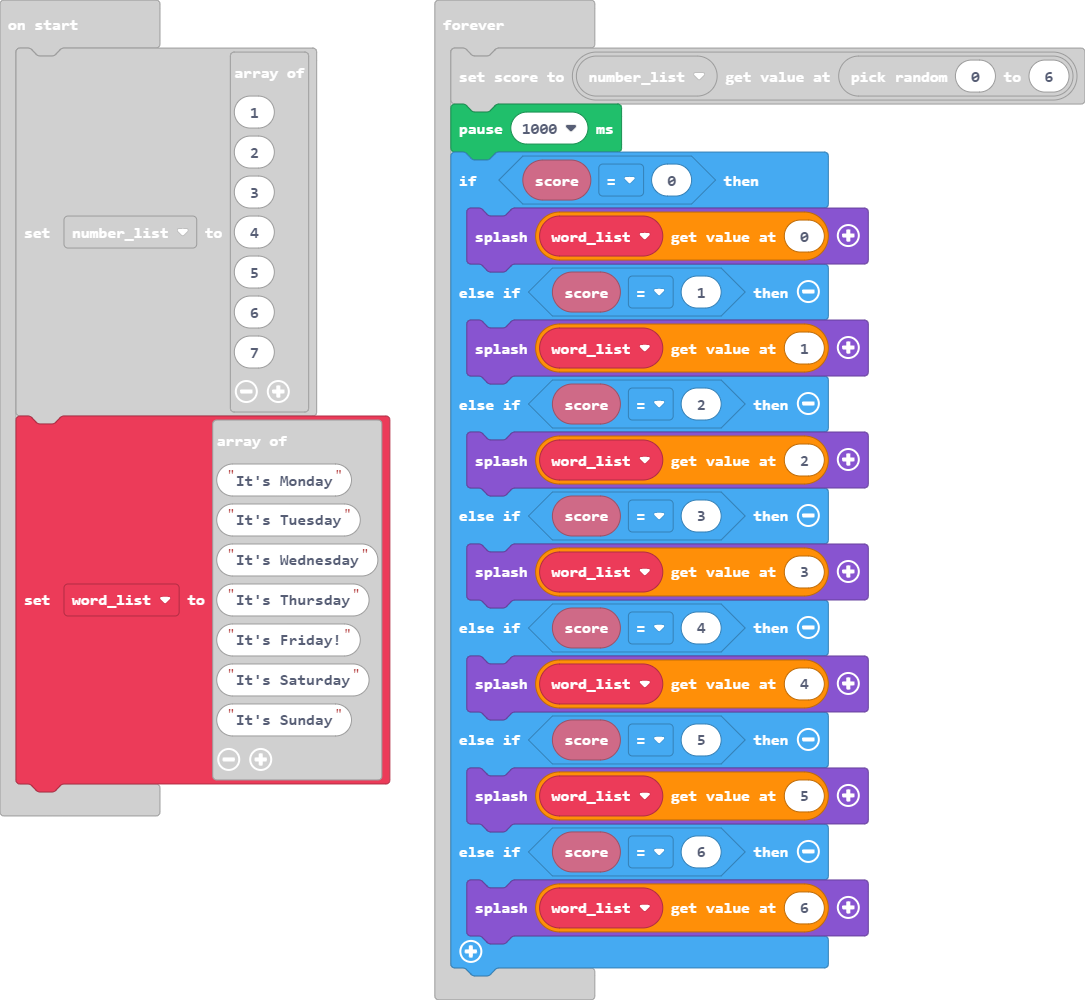
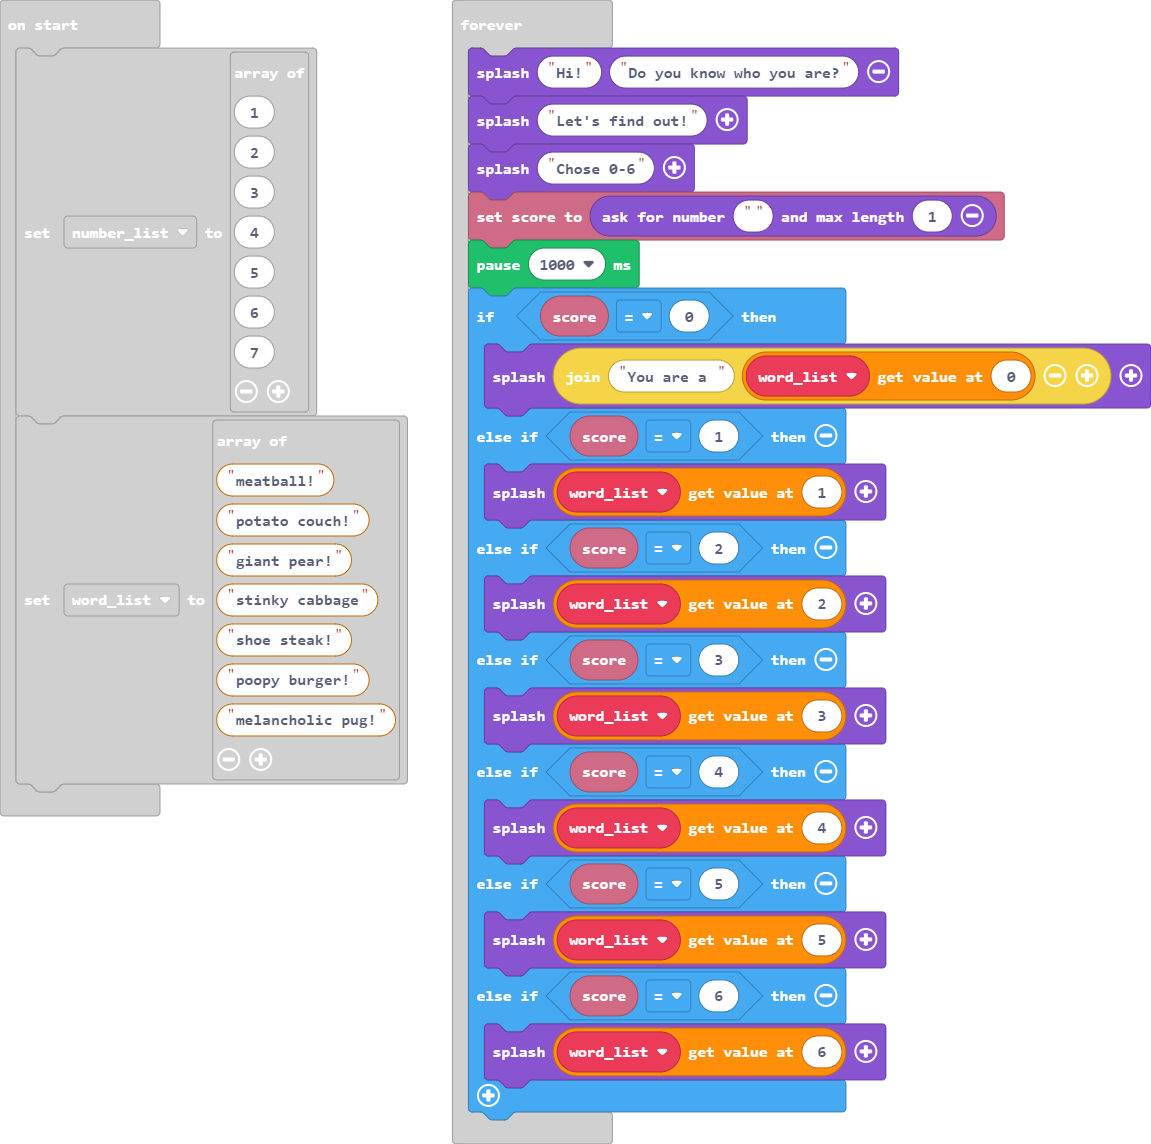
Update pxt.json, main.blocks, main.ts

diff --git a/main.ts b/main.ts
@@ -8,19 +8,22 @@ let number_list = [
 7
 ]
 let word_list = [
-"It's Monday",
-"It's Tuesday",
-"It's Wednesday",
-"It's Thursday",
-"It's Friday!",
-"It's Saturday",
-"It's Sunday"
+"meatball!",
+"potato couch!",
+"giant pear!",
+"stinky cabbage",
+"shoe steak!",
+"poopy burger!",
+"melancholic pug!"
 ]
 forever(function () {
-    info.setScore(number_list[randint(0, 6)])
+    game.splash("Hi!", "Do you know who you are?")
+    game.splash("Let's find out!")
+    game.splash("Chose 0-6")
+    info.setScore(game.askForNumber("", 1))
     pause(1000)
     if (info.score() == 0) {
-        game.splash(word_list[0])
+        game.splash("You are a " + word_list[0])
     } else if (info.score() == 1) {
         game.splash(word_list[1])
     } else if (info.score() == 2) {
